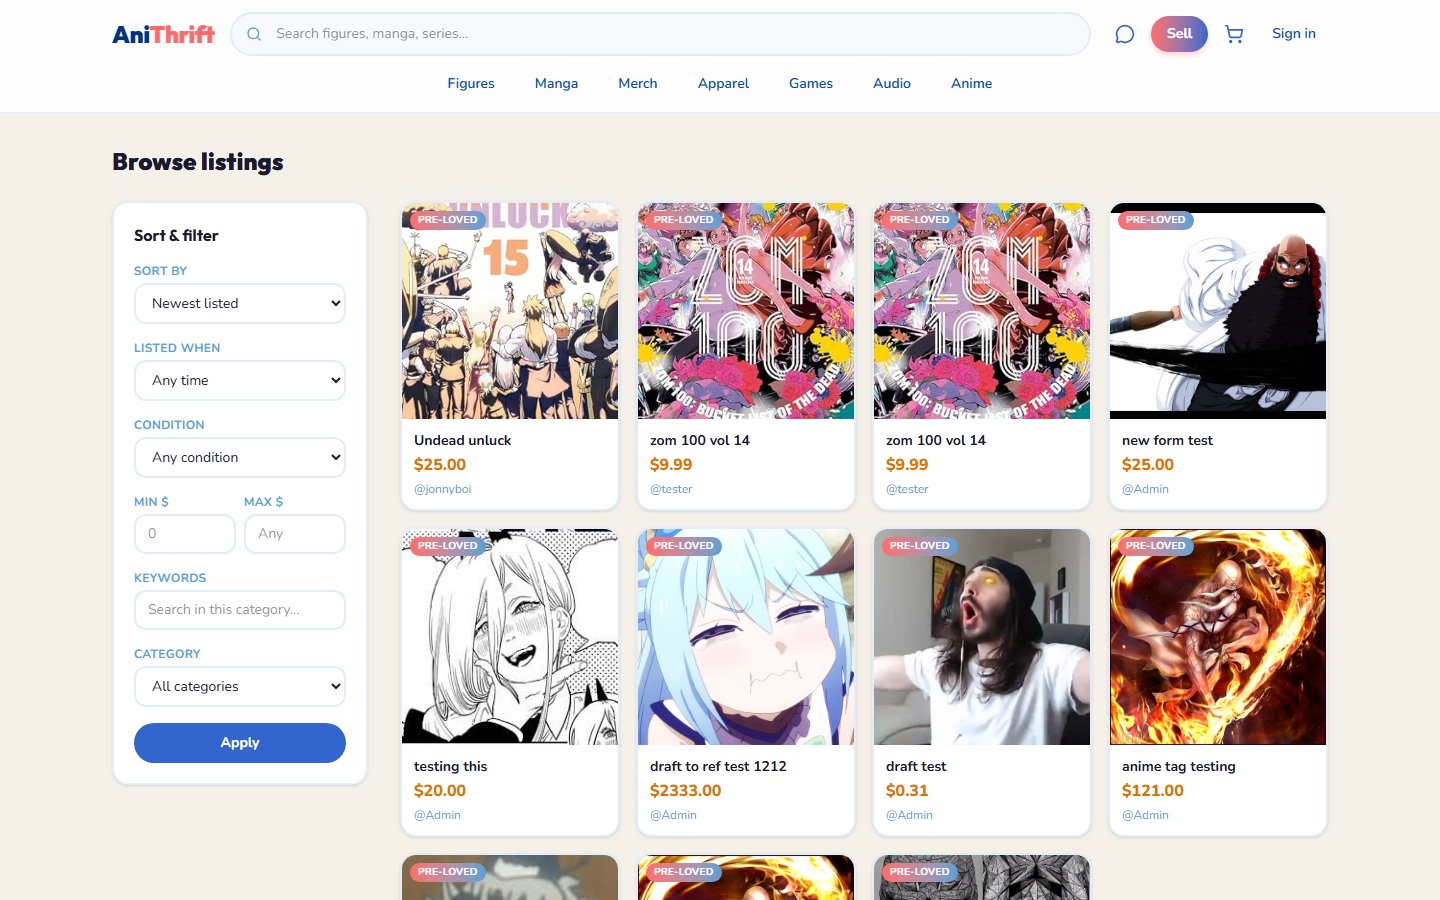
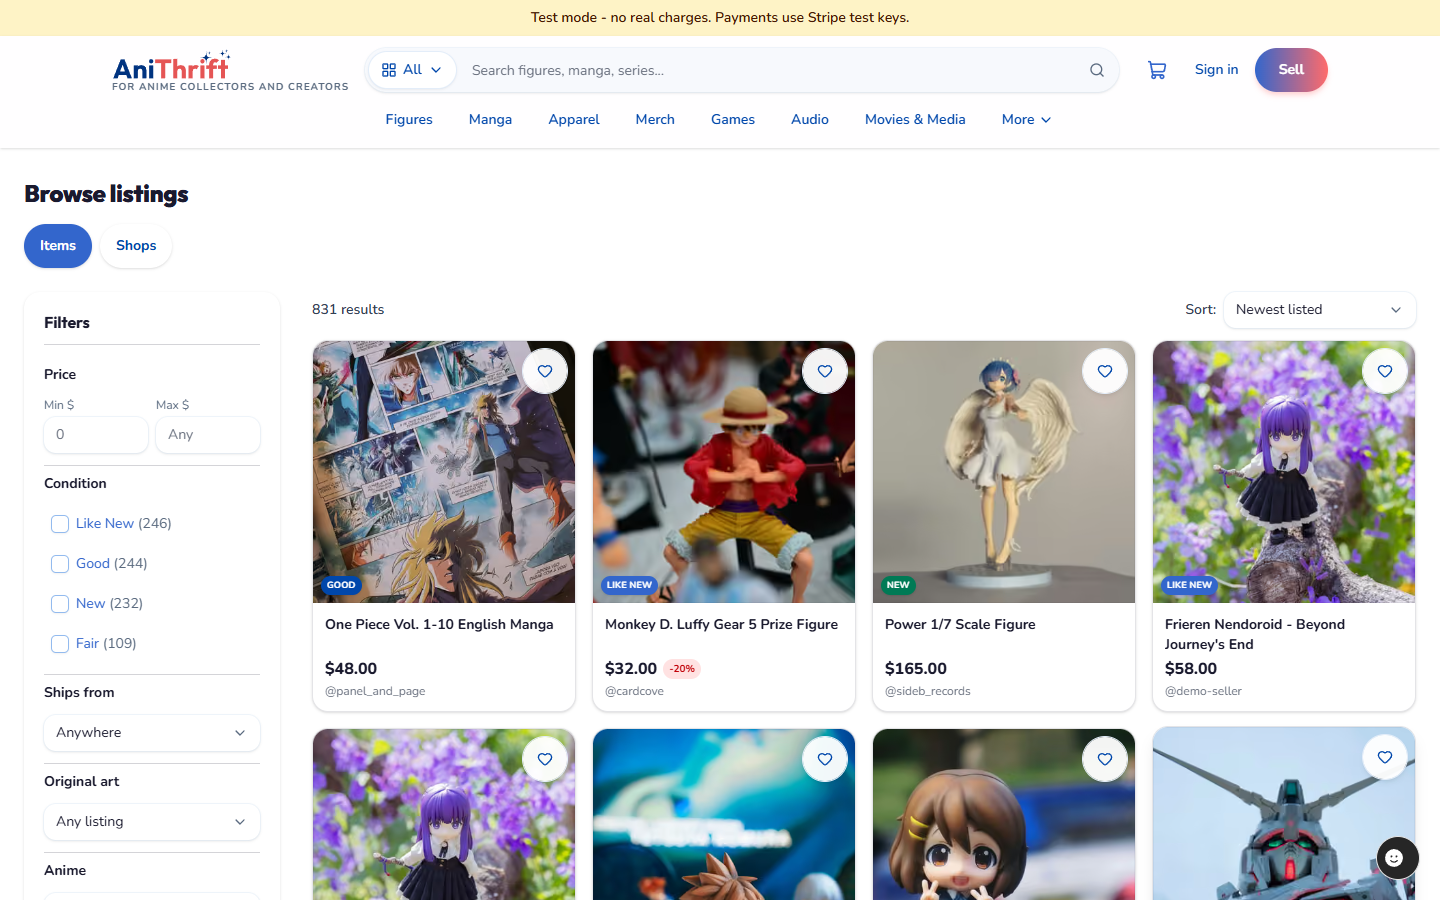
add did i, fledge, civichall; lead with did i, anithrift, pasteproof; refresh anithrift screenshots

diff --git a/src/data/data.js b/src/data/data.js
@@ -10,6 +10,14 @@ import civicshq_03 from "../assets/screenshots/civicshq/03-politicians.png";
 import civicshq_04 from "../assets/screenshots/civicshq/04-my-district.png";
 import civicshq_05 from "../assets/screenshots/civicshq/05-match.png";
 
+import didi from "../assets/did-i.png";
+import didi_01 from "../assets/screenshots/did-i/01-home.png";
+import didi_02 from "../assets/screenshots/did-i/02-download.png";
+import didi_03 from "../assets/screenshots/did-i/03-adhd.png";
+import didi_04 from "../assets/screenshots/did-i/04-no-nagging.png";
+import didi_05 from "../assets/screenshots/did-i/05-beta.png";
+import civichall from "../assets/civichall.webp";
+
 import anithrift from "../assets/anithrift.png";
 import anithrift_01 from "../assets/screenshots/anithrift/01-home.png";
 import anithrift_02 from "../assets/screenshots/anithrift/02-sell.png";
@@ -165,135 +173,31 @@ export const techStack = [
 
 export const data = [
   {
-    id: 1,
-    name: "CivicsHQ",
-    slug: "civicshq",
-    shortCode: "CVHQ",
-    category: "Civic Tech",
-    image: civicshq,
-    url: "https://civicshq.com",
-    github: "https://github.com/abryantdev/CivicsHQ",
+    id: 7,
+    name: "Did I",
+    slug: "did-i",
+    shortCode: "DDID",
+    category: "Mobile & PWA",
+    image: didi,
+    url: "https://did-i.app",
     live: true,
-    color: "#1a5c45",
-    labelColor: "#2d8a66",
-    tags: ["Next.js", "TypeScript", "Civic Data"],
+    color: "#2f7d6d",
+    labelColor: "#5fc2ad",
+    tags: ["React", "Expo", "Supabase", "PWA"],
     screenshots: [
-      { src: civicshq_01, alt: "Civic dashboard" },
-      { src: civicshq_02, alt: "Legislation feed" },
-      { src: civicshq_03, alt: "Politician lookup" },
-      { src: civicshq_04, alt: "District lookup" },
-      { src: civicshq_05, alt: "Match score" },
+      { src: didi_01, alt: "Homepage" },
+      { src: didi_02, alt: "Download" },
+      { src: didi_03, alt: "Habit tracker for ADHD" },
+      { src: didi_04, alt: "Ask without nagging" },
+      { src: didi_05, alt: "Android beta" },
     ],
     highlights: [
-      "Federal and state legislative tracker with AI summaries",
-      "Politician profiles and district lookup by address or ZIP",
-      "Match score tool to compare your views with representatives",
+      "One question at a time on a widget, Apple Watch, or reminder",
+      "Works offline as a PWA, with an Android app on the same UI",
+      "Friends and families, sync through Supabase, eight languages",
     ],
     description:
-      "Public utility platform for civic engagement. Track 8,000+ active bills, browse politician profiles, look up your district, and explore legislative match scores. No account required.",
-  },
-  {
-    id: 2,
-    name: "Pasteproof",
-    slug: "pasteproof",
-    shortCode: "PSTP",
-    category: "SaaS",
-    image: pasteproof,
-    url: "https://pasteproof.com",
-    color: "#6a9ae6",
-    labelColor: "#7fb6f4",
-    tags: ["React", "Node.js", "Auth"],
-    screenshots: [
-      { src: pasteproof_01, alt: "Homepage" },
-      { src: pasteproof_02, alt: "Pricing" },
-      { src: pasteproof_03, alt: "Interactive playground" },
-      { src: pasteproof_04, alt: "Browser extension" },
-      { src: pasteproof_05, alt: "APIs & Slack" },
-    ],
-    highlights: [
-      "Secure user authentication and data management",
-      "Modern React frontend with responsive UI",
-      "Built for scale across devices",
-    ],
-    description:
-      "Full-stack app with secure authentication, responsive UI, and a modern React frontend built for scale.",
-  },
-  {
-    id: 3,
-    name: "Freddie Mac",
-    slug: "freddie-mac",
-    shortCode: "FDMC",
-    category: "Enterprise",
-    image: freddie_mac_logo,
-    url: "https://sf.freddiemac.com",
-    color: "#5c8a6e",
-    labelColor: "#8bc4a0",
-    tags: ["Drupal", "PHP", "CI/CD"],
-    screenshots: [
-      { src: freddie_01, alt: "Homepage" },
-      { src: freddie_02, alt: "Working with Us" },
-      { src: freddie_03, alt: "Technology & learning" },
-      { src: freddie_04, alt: "News & insights" },
-      { src: freddie_05, alt: "Mortgage products" },
-    ],
-    highlights: [
-      "100% uptime on a mission-critical web ecosystem",
-      "Led platform migration from legacy systems",
-      "End-to-end Drupal content deployment pipeline",
-    ],
-    description:
-      "Mission-critical web ecosystem with 100% uptime, platform migration, and end-to-end Drupal content deployment.",
-  },
-  {
-    id: 4,
-    name: "Jasaron",
-    slug: "jasaron",
-    shortCode: "JSRN",
-    category: "Education",
-    image: jasaron,
-    live: false,
-    color: "#e8a838",
-    labelColor: "#ffd166",
-    tags: ["HTML5", "CSS3", "UX"],
-    screenshots: [
-      { src: jasaron, alt: "Homepage" },
-      { src: jasaron_03, alt: "Services" },
-      { src: jasaron_04, alt: "Book a session" },
-      { src: jasaron_05, alt: "Contact us" },
-    ],
-    highlights: [
-      "Responsive educational interfaces aligned to client goals",
-      "Full client website maintenance and optimization",
-      "UX-driven usability improvements from market research",
-    ],
-    description:
-      "Responsive educational interfaces, client site maintenance, and UX-driven usability improvements.",
-  },
-  {
-    id: 5,
-    name: "IBM Search",
-    slug: "ibm-search",
-    shortCode: "IBMQ",
-    category: "Enterprise",
-    image: ibm_logo,
-    url: "https://www.ibm.com/support/pages/ibmsearch",
-    color: "#4a6670",
-    labelColor: "#6a9ae6",
-    tags: ["Drupal", "PHP", "Search"],
-    screenshots: [
-      { src: ibm_01, alt: "IBM Search" },
-      { src: ibm_02, alt: "Search results" },
-      { src: ibm_03, alt: "Support portal" },
-      { src: ibm_04, alt: "Fix Central" },
-      { src: ibm_05, alt: "Documentation" },
-    ],
-    highlights: [
-      "Diagnostic scripts for Drupal content reconciliation",
-      "Advanced search query capabilities in Drupal",
-      "Nuanced content discovery for end users",
-    ],
-    description:
-      "Diagnostic scripts for Drupal content reconciliation and advanced search query capabilities.",
+      "Habit reminder app for people who forget to open habit trackers. Tap Did or Not yet. No account needed to start.",
   },
   {
     id: 6,
@@ -322,6 +226,175 @@ export const data = [
     ],
     description:
       "Anime merch marketplace for collectors. Browse pre-loved figures, manga, and apparel; list for free with Stripe payouts, secure checkout, and in-app messaging.",
+  },
+  {
+    id: 2,
+    name: "Pasteproof",
+    slug: "pasteproof",
+    shortCode: "PSTP",
+    category: "SaaS",
+    image: pasteproof,
+    url: "https://pasteproof.com",
+    color: "#6a9ae6",
+    labelColor: "#7fb6f4",
+    tags: ["React", "Node.js", "Auth"],
+    screenshots: [
+      { src: pasteproof_01, alt: "Homepage" },
+      { src: pasteproof_02, alt: "Pricing" },
+      { src: pasteproof_03, alt: "Interactive playground" },
+      { src: pasteproof_04, alt: "Browser extension" },
+      { src: pasteproof_05, alt: "APIs & Slack" },
+    ],
+    highlights: [
+      "Secure user authentication and data management",
+      "Modern React frontend with responsive UI",
+      "Built for scale across devices",
+    ],
+    description:
+      "Full-stack app with secure authentication, responsive UI, and a modern React frontend built for scale.",
+  },
+  {
+    id: 9,
+    name: "CivicHall",
+    slug: "civichall",
+    shortCode: "CVHL",
+    category: "Drupal",
+    image: civichall,
+    github: "https://github.com/Aaronlb912/civic_hall",
+    live: false,
+    color: "#1f3a5f",
+    labelColor: "#6f9bd1",
+    tags: ["Drupal", "PHP", "Twig"],
+    highlights: [
+      "Drupal CMS site template for city clerks and one-person IT shops",
+      "Custom content types: How do I, Department, Official, Meeting, News, City alert",
+      "Mercury subtheme, search, contact and records request forms",
+    ],
+    description:
+      "Municipal site template on Drupal CMS with sample content for a fictional town, built so a clerk can install it and rename it.",
+  },
+  {
+    id: 8,
+    name: "Fledge",
+    slug: "fledge",
+    shortCode: "FLDG",
+    category: "Developer Tools",
+    live: false,
+    color: "#3b6ea8",
+    labelColor: "#7fb0e6",
+    tags: ["Next.js", "TypeScript", "Supabase"],
+    highlights: [
+      "Visual editor so clients change text, images, pages, and theme without a developer",
+      "Draft and publish with version history, restore, and undo",
+      "Row-level security so only site members can open the editor",
+    ],
+    description:
+      "Hand off a client site built in Next.js. Owners edit blocks, pages, and theme in a visual editor, and developers keep the code.",
+  },
+  {
+    id: 3,
+    name: "Freddie Mac",
+    slug: "freddie-mac",
+    shortCode: "FDMC",
+    category: "Enterprise",
+    image: freddie_mac_logo,
+    url: "https://sf.freddiemac.com",
+    color: "#5c8a6e",
+    labelColor: "#8bc4a0",
+    tags: ["Drupal", "PHP", "CI/CD"],
+    screenshots: [
+      { src: freddie_01, alt: "Homepage" },
+      { src: freddie_02, alt: "Working with Us" },
+      { src: freddie_03, alt: "Technology & learning" },
+      { src: freddie_04, alt: "News & insights" },
+      { src: freddie_05, alt: "Mortgage products" },
+    ],
+    highlights: [
+      "100% uptime on a mission-critical web ecosystem",
+      "Led platform migration from legacy systems",
+      "End-to-end Drupal content deployment pipeline",
+    ],
+    description:
+      "Mission-critical web ecosystem with 100% uptime, platform migration, and end-to-end Drupal content deployment.",
+  },
+  {
+    id: 5,
+    name: "IBM Search",
+    slug: "ibm-search",
+    shortCode: "IBMQ",
+    category: "Enterprise",
+    image: ibm_logo,
+    url: "https://www.ibm.com/support/pages/ibmsearch",
+    color: "#4a6670",
+    labelColor: "#6a9ae6",
+    tags: ["Drupal", "PHP", "Search"],
+    screenshots: [
+      { src: ibm_01, alt: "IBM Search" },
+      { src: ibm_02, alt: "Search results" },
+      { src: ibm_03, alt: "Support portal" },
+      { src: ibm_04, alt: "Fix Central" },
+      { src: ibm_05, alt: "Documentation" },
+    ],
+    highlights: [
+      "Diagnostic scripts for Drupal content reconciliation",
+      "Advanced search query capabilities in Drupal",
+      "Nuanced content discovery for end users",
+    ],
+    description:
+      "Diagnostic scripts for Drupal content reconciliation and advanced search query capabilities.",
+  },
+  {
+    id: 1,
+    name: "CivicsHQ",
+    slug: "civicshq",
+    shortCode: "CVHQ",
+    category: "Civic Tech",
+    image: civicshq,
+    url: "https://civicshq.com",
+    github: "https://github.com/abryantdev/CivicsHQ",
+    live: true,
+    color: "#1a5c45",
+    labelColor: "#2d8a66",
+    tags: ["Next.js", "TypeScript", "Civic Data"],
+    screenshots: [
+      { src: civicshq_01, alt: "Civic dashboard" },
+      { src: civicshq_02, alt: "Legislation feed" },
+      { src: civicshq_03, alt: "Politician lookup" },
+      { src: civicshq_04, alt: "District lookup" },
+      { src: civicshq_05, alt: "Match score" },
+    ],
+    highlights: [
+      "Federal and state legislative tracker with AI summaries",
+      "Politician profiles and district lookup by address or ZIP",
+      "Match score tool to compare your views with representatives",
+    ],
+    description:
+      "Public utility platform for civic engagement. Track 8,000+ active bills, browse politician profiles, look up your district, and explore legislative match scores. No account required.",
+  },
+  {
+    id: 4,
+    name: "Jasaron",
+    slug: "jasaron",
+    shortCode: "JSRN",
+    category: "Education",
+    image: jasaron,
+    live: false,
+    color: "#e8a838",
+    labelColor: "#ffd166",
+    tags: ["HTML5", "CSS3", "UX"],
+    screenshots: [
+      { src: jasaron, alt: "Homepage" },
+      { src: jasaron_03, alt: "Services" },
+      { src: jasaron_04, alt: "Book a session" },
+      { src: jasaron_05, alt: "Contact us" },
+    ],
+    highlights: [
+      "Responsive educational interfaces aligned to client goals",
+      "Full client website maintenance and optimization",
+      "UX-driven usability improvements from market research",
+    ],
+    description:
+      "Responsive educational interfaces, client site maintenance, and UX-driven usability improvements.",
   },
 ];
 
